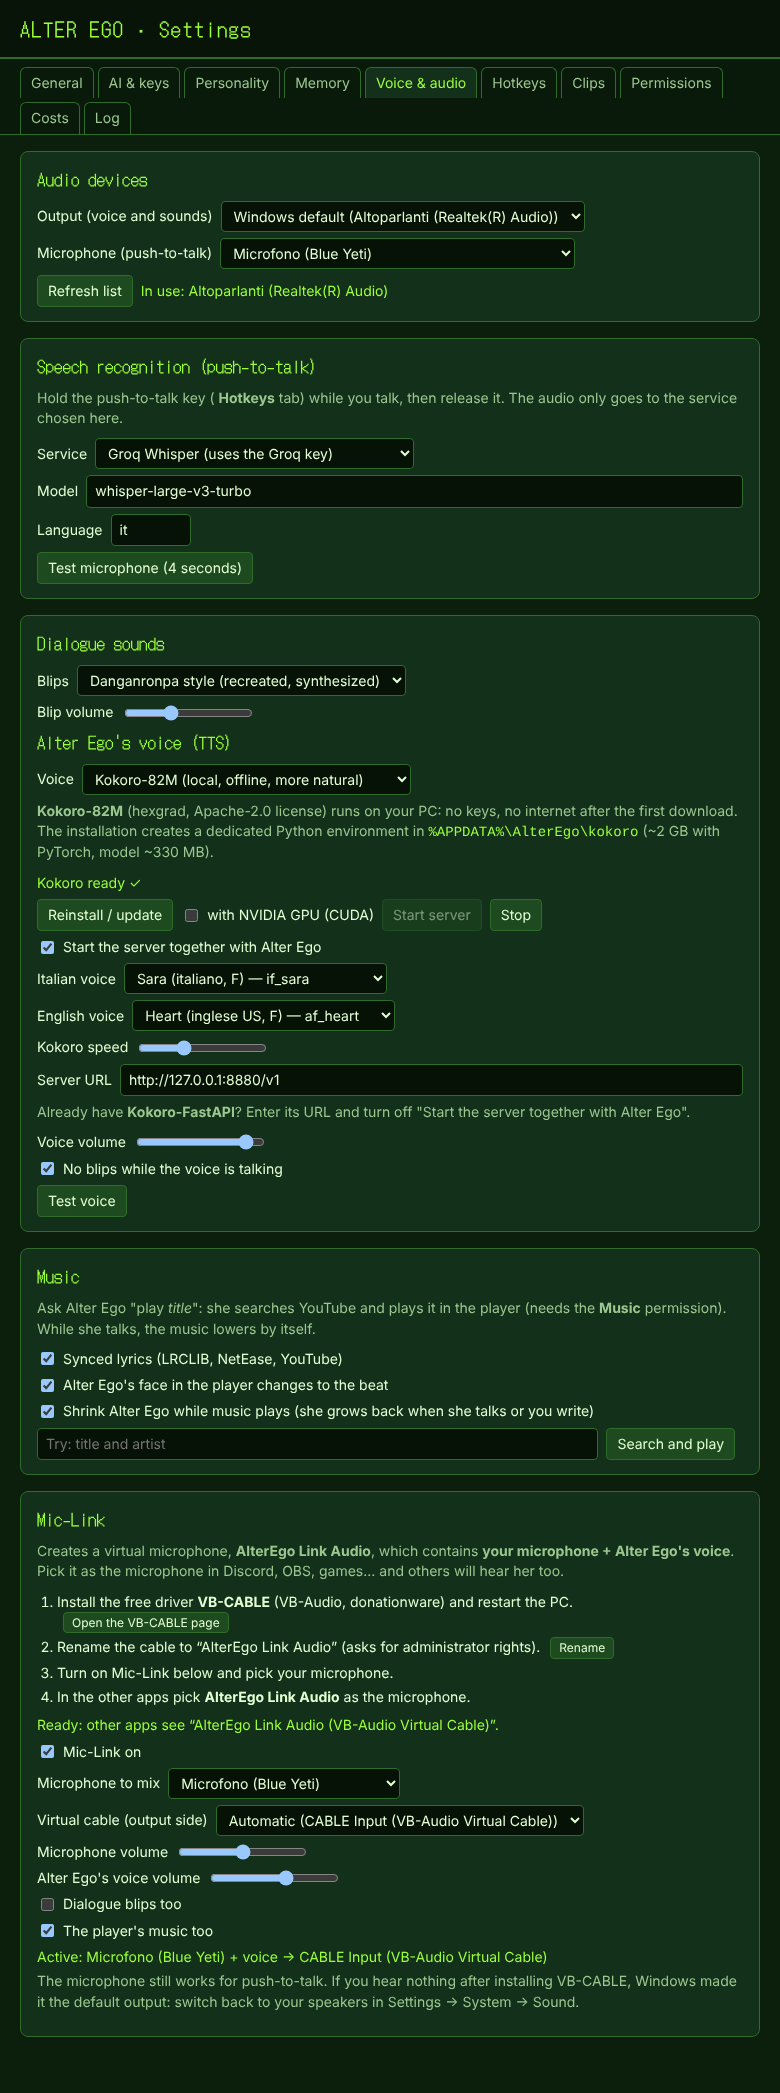
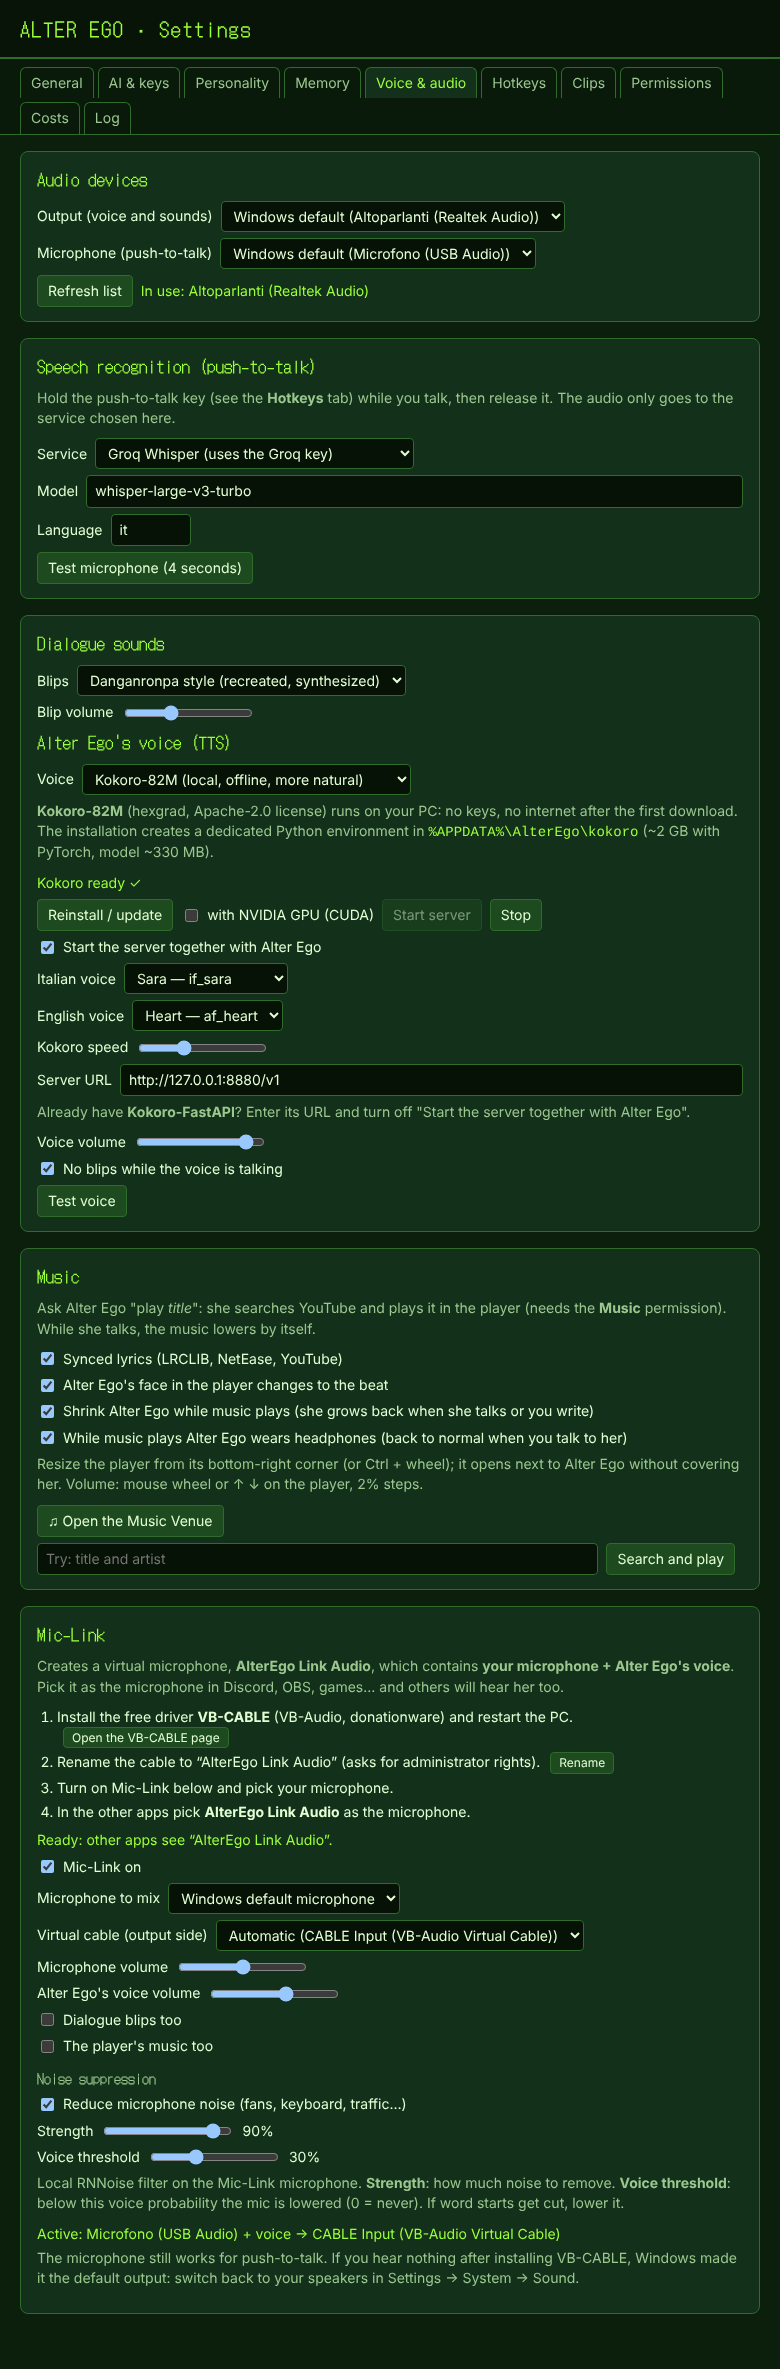
README: Music Venue screenshots, new settings screenshots, credit to Ayari
- Screenshots (IT and EN): headphones sprite, player, Music Venue, search,
  player-to-Venue transition, side-by-side windows, updated settings tabs
- Credits: headphones sprite by Ayari (@xxayariii on Instagram)
- tools/process_music_sprite.py: how the sprite was adapted

Claude-Session: https://claude.ai/code/session_01UBN1ncScko3HWTY2m4bbgM

Changed region(s): [[0.0308, 0.0, 0.9538, 0.9627], [0.7385, 0.0311, 0.9231, 0.0621]]

diff --git a/tools/process_music_sprite.py b/tools/process_music_sprite.py
@@ -1,0 +1,51 @@
+# Sprite "Alter Ego con le cuffie" (disegno di Ayari, @xxayariii): toglie sfondo verde e scanline,
+# tinge come gli altri sprite (giallo-verde CRT) e lo adatta alla tela 612x483.
+# Uso: python tools/process_music_sprite.py originale.jpg src/assets/sprites/music.png (richiede pillow, numpy, scipy)
+import sys
+from PIL import Image
+import numpy as np
+from scipy import ndimage
+src = Image.open(sys.argv[1]).convert('RGB')
+a = np.array(src).astype(float)
+r, g, b = a[..., 0], a[..., 1], a[..., 2]
+h, w = r.shape
+crit = (g - r > 46) & (g > 110)
+lab, n = ndimage.label(crit)
+sizes = ndimage.sum(crit, lab, range(1, n + 1))
+big = np.zeros(n + 1, bool); big[1:] = sizes > 800
+bgm = big[lab]
+bgm[:18] = True; bgm[:, :430] = True; bgm[:, 1860:] = True; bgm[:300, 1600:] = True; bgm[:, :100] = True; bgm[:, w - 100:] = True; bgm[1402:] = True
+fg = ~bgm
+fg = ndimage.binary_opening(fg, iterations=2)
+lab2, n2 = ndimage.label(fg)
+s2 = ndimage.sum(fg, lab2, range(1, n2 + 1))
+fg = lab2 == (np.argmax(s2) + 1)
+fg = ndimage.binary_dilation(fg, iterations=2)
+alpha = ndimage.gaussian_filter(fg.astype(float), 1.0)
+L = a @ [.299, .587, .114]
+# scanline removal: strong vertical blur, real (very dark) outlines kept sharp
+Lb = ndimage.gaussian_filter1d(L, 7, axis=0)
+Lb = ndimage.gaussian_filter1d(Lb, 1.2, axis=1)
+dark = L < 80
+dark = ndimage.binary_dilation(dark, iterations=1)
+L = np.where(dark, np.minimum(L, Lb), Lb)
+# contrast stretch on the character
+v = L[fg]
+lo, hi = np.percentile(v, 2), np.percentile(v, 99.5)
+L = np.clip((L - lo) / (hi - lo), 0, 1) ** 1.15 * 245
+pts = [(0, (20, 15, 0)), (37, (46, 45, 1)), (62, (71, 74, 2)), (87, (98, 101, 2)), (112, (122, 126, 3)), (137, (150, 157, 5)),
+       (162, (185, 190, 5)), (187, (211, 205, 14)), (212, (229, 226, 120)), (237, (239, 236, 165)), (255, (248, 246, 200))]
+xs = [p[0] for p in pts]
+out = np.stack([np.interp(L, xs, [p[1][c] for p in pts]) for c in range(3)], -1)
+rgba = np.dstack([out, alpha * 255]).clip(0, 255).astype(np.uint8)
+im = Image.fromarray(rgba)
+bbox = Image.fromarray((alpha > .5).astype(np.uint8) * 255).getbbox()
+print('bbox', bbox)
+im = im.crop((bbox[0], bbox[1], bbox[2], bbox[3]))
+W, H = 612, 483
+s = min(W / im.width, H * 0.995 / im.height)
+im = im.resize((round(im.width * s), round(im.height * s)), Image.LANCZOS)
+can = Image.new('RGBA', (W, H), (0, 0, 0, 0))
+can.paste(im, ((W - im.width) // 2, 0), im)
+can.save(sys.argv[2], optimize=True)
+print(can.size, im.size)

diff --git a/README.it.md b/README.it.md
@@ -87,9 +87,22 @@ Progetto fan non ufficiale e non commerciale. Interfaccia in italiano e in ingle
 | ![Richiesta di permesso](docs/screenshots/confirm.png) | ![Input di testo](docs/screenshots/input.png) |
 | Conferma prima di un'azione sul PC | Scrivere ad Alter Ego (`Ctrl+Alt+T`) |
 
-**Lettore musicale**
+**Lettore musicale e Music Venue**
 
-![Lettore musicale: spettro, titolo, comandi, testo sincronizzato e volto di Alter Ego](docs/screenshots/player.png)
+| | |
+|---|---|
+| ![Alter Ego con le cuffie mentre suona la musica](docs/screenshots/main-music.png) | ![Lettore musicale: spettro, titolo, comandi, preferito, tasto Venue, testo sincronizzato](docs/screenshots/player.png) |
+| Mentre suona la musica mette le cuffie (sprite di [Ayari](https://www.instagram.com/xxayariii/)) | Lettore: preferito ♥, tasto Music Venue, angolo per ridimensionare |
+| ![Music Venue: brani recenti, preferiti e in riproduzione](docs/screenshots/venue.png) | ![Music Venue: ricerca nella libreria o su YouTube](docs/screenshots/venue-search.png) |
+| Music Venue: recenti, preferiti, in riproduzione | Ricerca nella libreria o su YouTube |
+
+![Il lettore si espande nella Music Venue nella stessa finestra, con una transizione glitch](docs/screenshots/venue-morph.png)
+
+*Il lettore si espande nella Music Venue (e torna lettore) nella stessa finestra.*
+
+![Alter Ego, il lettore e la Music Venue separata affiancati, senza sovrapporsi](docs/screenshots/desktop-layout.png)
+
+*Separata (⧉): le finestre si aprono affiancate e non coprono mai Alter Ego né si sovrappongono.*
 
 **Spegnimento e accensione "vecchia TV"**
 
@@ -496,6 +509,8 @@ La versione è quella di `src-tauri/tauri.conf.json`.
 - **Kokoro-82M** e la libreria `kokoro` di hexgrad: Apache-2.0. Non sono inclusi nell'app: li scarica l'installazione di Kokoro.
 - **VB-CABLE** di VB-Audio Software: donationware, non incluso; si scarica dal sito ufficiale.
 - **Font** [DotGothic16](https://github.com/fontworks-fonts/DotGothic16): SIL Open Font License 1.1 (`src/assets/fonts/OFL.txt`).
+- Sprite di **Alter Ego con le cuffie**: disegno originale di **Ayari** ([@xxayariii su Instagram](https://www.instagram.com/xxayariii/)),
+  adattato per l'app (sfondo rimosso, tinta verde CRT). Grazie, Ayari! 💚
 - Logo, sfondo a circuiti, icona e suoni sono stati creati per questo progetto.
 - Costruito con [Tauri](https://tauri.app), [rusqlite](https://github.com/rusqlite/rusqlite), [cpal](https://github.com/RustAudio/cpal),
   [reqwest](https://github.com/seanmonstar/reqwest), [keyring](https://github.com/hwchen/keyring-rs) e altre librerie open source (vedi `src-tauri/Cargo.toml`).

diff --git a/README.md b/README.md
@@ -87,9 +87,22 @@ Unofficial, non-commercial fan project. Interface in English and Italian.
 | ![Permission request](docs/screenshots/en/confirm.png) | ![Text input](docs/screenshots/en/input.png) |
 | Confirmation before a PC action | Writing to Alter Ego (`Ctrl+Alt+T`) |
 
-**Music player**
+**Music player and Music Venue**
 
-![Music player: spectrum, title, controls, synced lyrics and Alter Ego's face](docs/screenshots/en/player.png)
+| | |
+|---|---|
+| ![Alter Ego with headphones while music plays](docs/screenshots/en/main-music.png) | ![Music player: spectrum, title, controls, favorite, Venue button, synced lyrics](docs/screenshots/en/player.png) |
+| While music plays she wears headphones (sprite by [Ayari](https://www.instagram.com/xxayariii/)) | Player: favorite ♥, Music Venue button, resizable corner |
+| ![Music Venue: recent tracks, favorites and now playing](docs/screenshots/en/venue.png) | ![Music Venue: search in the library or on YouTube](docs/screenshots/en/venue-search.png) |
+| Music Venue: recent tracks, favorites, now playing | Search in the library or on YouTube |
+
+![The player expands into the Music Venue in the same window, with a glitch transition](docs/screenshots/en/venue-morph.png)
+
+*The player expands into the Music Venue (and back) in the same window.*
+
+![Alter Ego, the player and the detached Music Venue side by side, without overlapping](docs/screenshots/en/desktop-layout.png)
+
+*Detached (⧉): the windows open side by side and never cover Alter Ego or each other.*
 
 **"Old TV" power off and on**
 
@@ -496,6 +509,8 @@ The version comes from `src-tauri/tauri.conf.json`.
 - **Kokoro-82M** and hexgrad's `kokoro` library: Apache-2.0. Not bundled with the app: the Kokoro installation downloads them.
 - **VB-CABLE** by VB-Audio Software: donationware, not bundled; download it from the official website.
 - **Font** [DotGothic16](https://github.com/fontworks-fonts/DotGothic16): SIL Open Font License 1.1 (`src/assets/fonts/OFL.txt`).
+- **Alter Ego with headphones** sprite: original artwork by **Ayari** ([@xxayariii on Instagram](https://www.instagram.com/xxayariii/)),
+  adapted for the app (background removed, green CRT tint). Thank you, Ayari! 💚
 - Logo, circuit background, icon and sounds were created for this project.
 - Built with [Tauri](https://tauri.app), [rusqlite](https://github.com/rusqlite/rusqlite), [cpal](https://github.com/RustAudio/cpal),
   [reqwest](https://github.com/seanmonstar/reqwest), [keyring](https://github.com/hwchen/keyring-rs), [symphonia](https://github.com/pdeljanov/Symphonia),

diff --git a/docs/SOURCES.md b/docs/SOURCES.md
@@ -5,6 +5,7 @@
 | `assets/sprites/raw/alter_ego_sheet.png` | Foglio 3×3 fornito dall'utente (2 novembre 2026), ricavato da sprite di The Models Resource, screenshot già tinti di verde. Il 9° pannello (Mondo Owada) non è Alter Ego ed è ignorato. | © Spike Chunsoft (Danganronpa). Incluso nella repo dalla 1.0.1. |
 | `src/assets/sprites/*.png` | Generati da `tools/process_sprites.py` a partire dal foglio sopra. | Come sopra: inclusi nella repo e nell'app. |
 | `%APPDATA%\AlterEgo\sprites\*.png` | Generati dall'app con *Importa foglio sprite* (stessa elaborazione, in `src-tauri/src/sprites.rs`). | Dipende dal foglio importato. Restano sul PC dell'utente. |
+| `src/assets/sprites/music.png` (Alter Ego con le cuffie) | Disegno originale di **Ayari** ([@xxayariii su Instagram](https://www.instagram.com/xxayariii/)), fornito dall'utente (4 novembre 2026). Sfondo verde e scanline rimossi, tinta CRT, ritaglio con `tools/process_music_sprite.py`. | Opera di Ayari: diritti dell'autrice, non rientra nella licenza MIT. |
 | Suoni dei blip e jingle | Sintetizzati nel codice (`src-tauri/src/audio/synth.rs`). | Nessun vincolo. |
 | `docs/screenshots/*.png` | Catture dell'interfaccia (con gli sprite originali). | Contengono gli sprite. |
 | Kokoro-82M (modello e voci), libreria `kokoro` | Scaricati da Hugging Face / PyPI durante l'installazione di Kokoro (`tools/kokoro/setup.ps1`), non nella repo. | Apache-2.0 (hexgrad). |
@@ -12,6 +13,6 @@
 | `src/assets/fonts/DotGothic16-Regular.ttf` | github.com/google/fonts (`ofl/dotgothic16`) | SIL Open Font License 1.1 (`OFL.txt`). |
 | Logo laptop, sfondo a circuiti, icona app | Disegnati per questo progetto (SVG/script). | Nessun vincolo. |
 
-Gli sprite vengono tutti dal foglio fornito (origine: The Models Resource).
+Gli sprite delle espressioni vengono dal foglio fornito (origine: The Models Resource); quello con le cuffie è di Ayari.
 
 Gli sprite di Alter Ego sono © Spike Chunsoft e non rientrano nella licenza MIT del codice.
